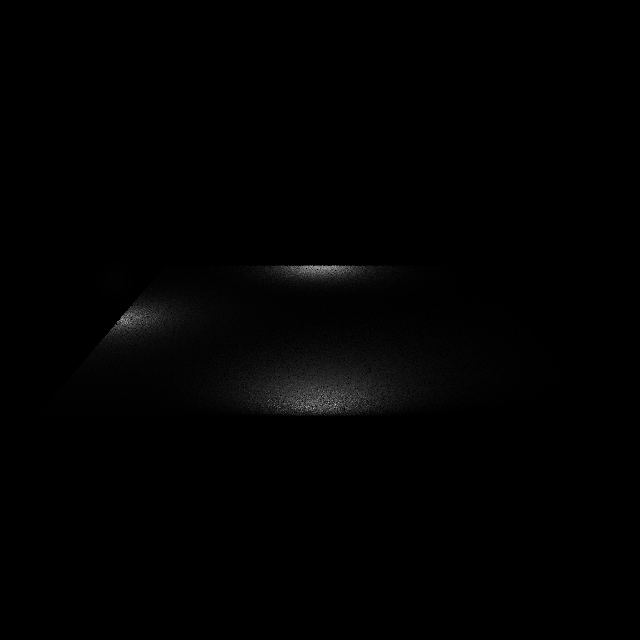
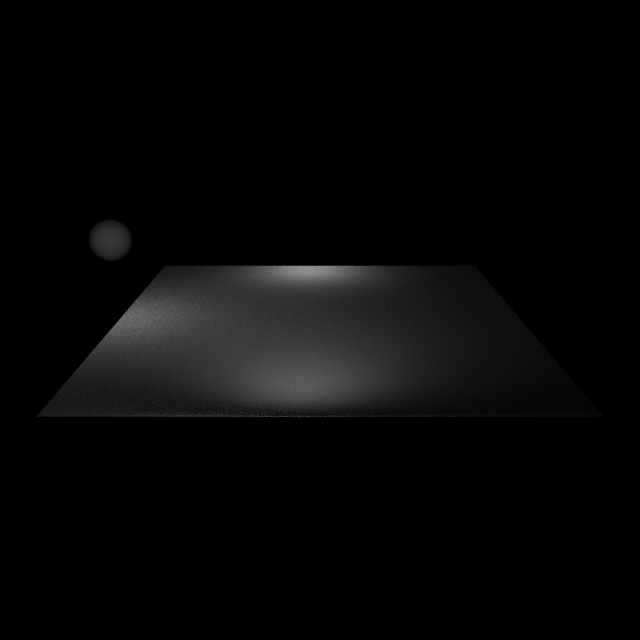
Adjust lights height

Changed region(s): [[0.0625, 0.4062, 0.6875, 0.6562], [0.125, 0.3438, 0.2188, 0.4062]]

diff --git a/src/main.cpp b/src/main.cpp
@@ -155,11 +155,11 @@ int main(){
     LightingImpl* lighting = new LightingImpl();
     //lighting->lights.push_back(make_shared<const PointLight>(vec3{1.0f, 0.0f, -0.9f}, 10.0f));
     // TODO Why it has non-proportional power?
-    lighting->lights.push_back(make_shared<const SphereLight>(vec3{-1.0f, 0.0f, -0.80f}, 1.0f, 0.1f));
+    lighting->lights.push_back(make_shared<const SphereLight>(vec3{-1.0f, 0.0f, -0.60f}, 1.0f, 0.1f));
     // radiates down
-    lighting->lights.push_back(make_shared<const AreaLight>(vec3{-0.1f, +1.0f-0.1f, -0.8f}, vec3{0.0f, 0.2f, 0.0f}, vec3{0.2f, 0.0f, 0.0f}, 1.0f));
+    lighting->lights.push_back(make_shared<const AreaLight>(vec3{-0.1f, +1.0f-0.1f, -0.6f}, vec3{0.0f, 0.2f, 0.0f}, vec3{0.2f, 0.0f, 0.0f}, 1.0f));
     // radiates forward
-    lighting->lights.push_back(make_shared<const AreaLight>(vec3{-0.1f, -1.0f, -0.80-0.1f}, vec3{0.0f, 0.0f, 0.2f}, vec3{0.2f, 0.0f, 0.0f}, 1.0f));
+    lighting->lights.push_back(make_shared<const AreaLight>(vec3{-0.1f, -1.0f, -0.60-0.1f}, vec3{0.0f, 0.0f, 0.2f}, vec3{0.2f, 0.0f, 0.0f}, 1.0f));
 
     Geometry* geometry = new Floor();
     vec3 camera_pos(0.0f, -3.0f, 0.1f);
@@ -170,7 +170,7 @@ int main(){
 
     GridRenderPlane r_plane(640, 640);
 
-    render(scene, r_plane, 5*r_plane.width*r_plane.height);
+    render(scene, r_plane, 50*r_plane.width*r_plane.height);
 
     cout << "Max value = " << r_plane.max_value << endl;
 
